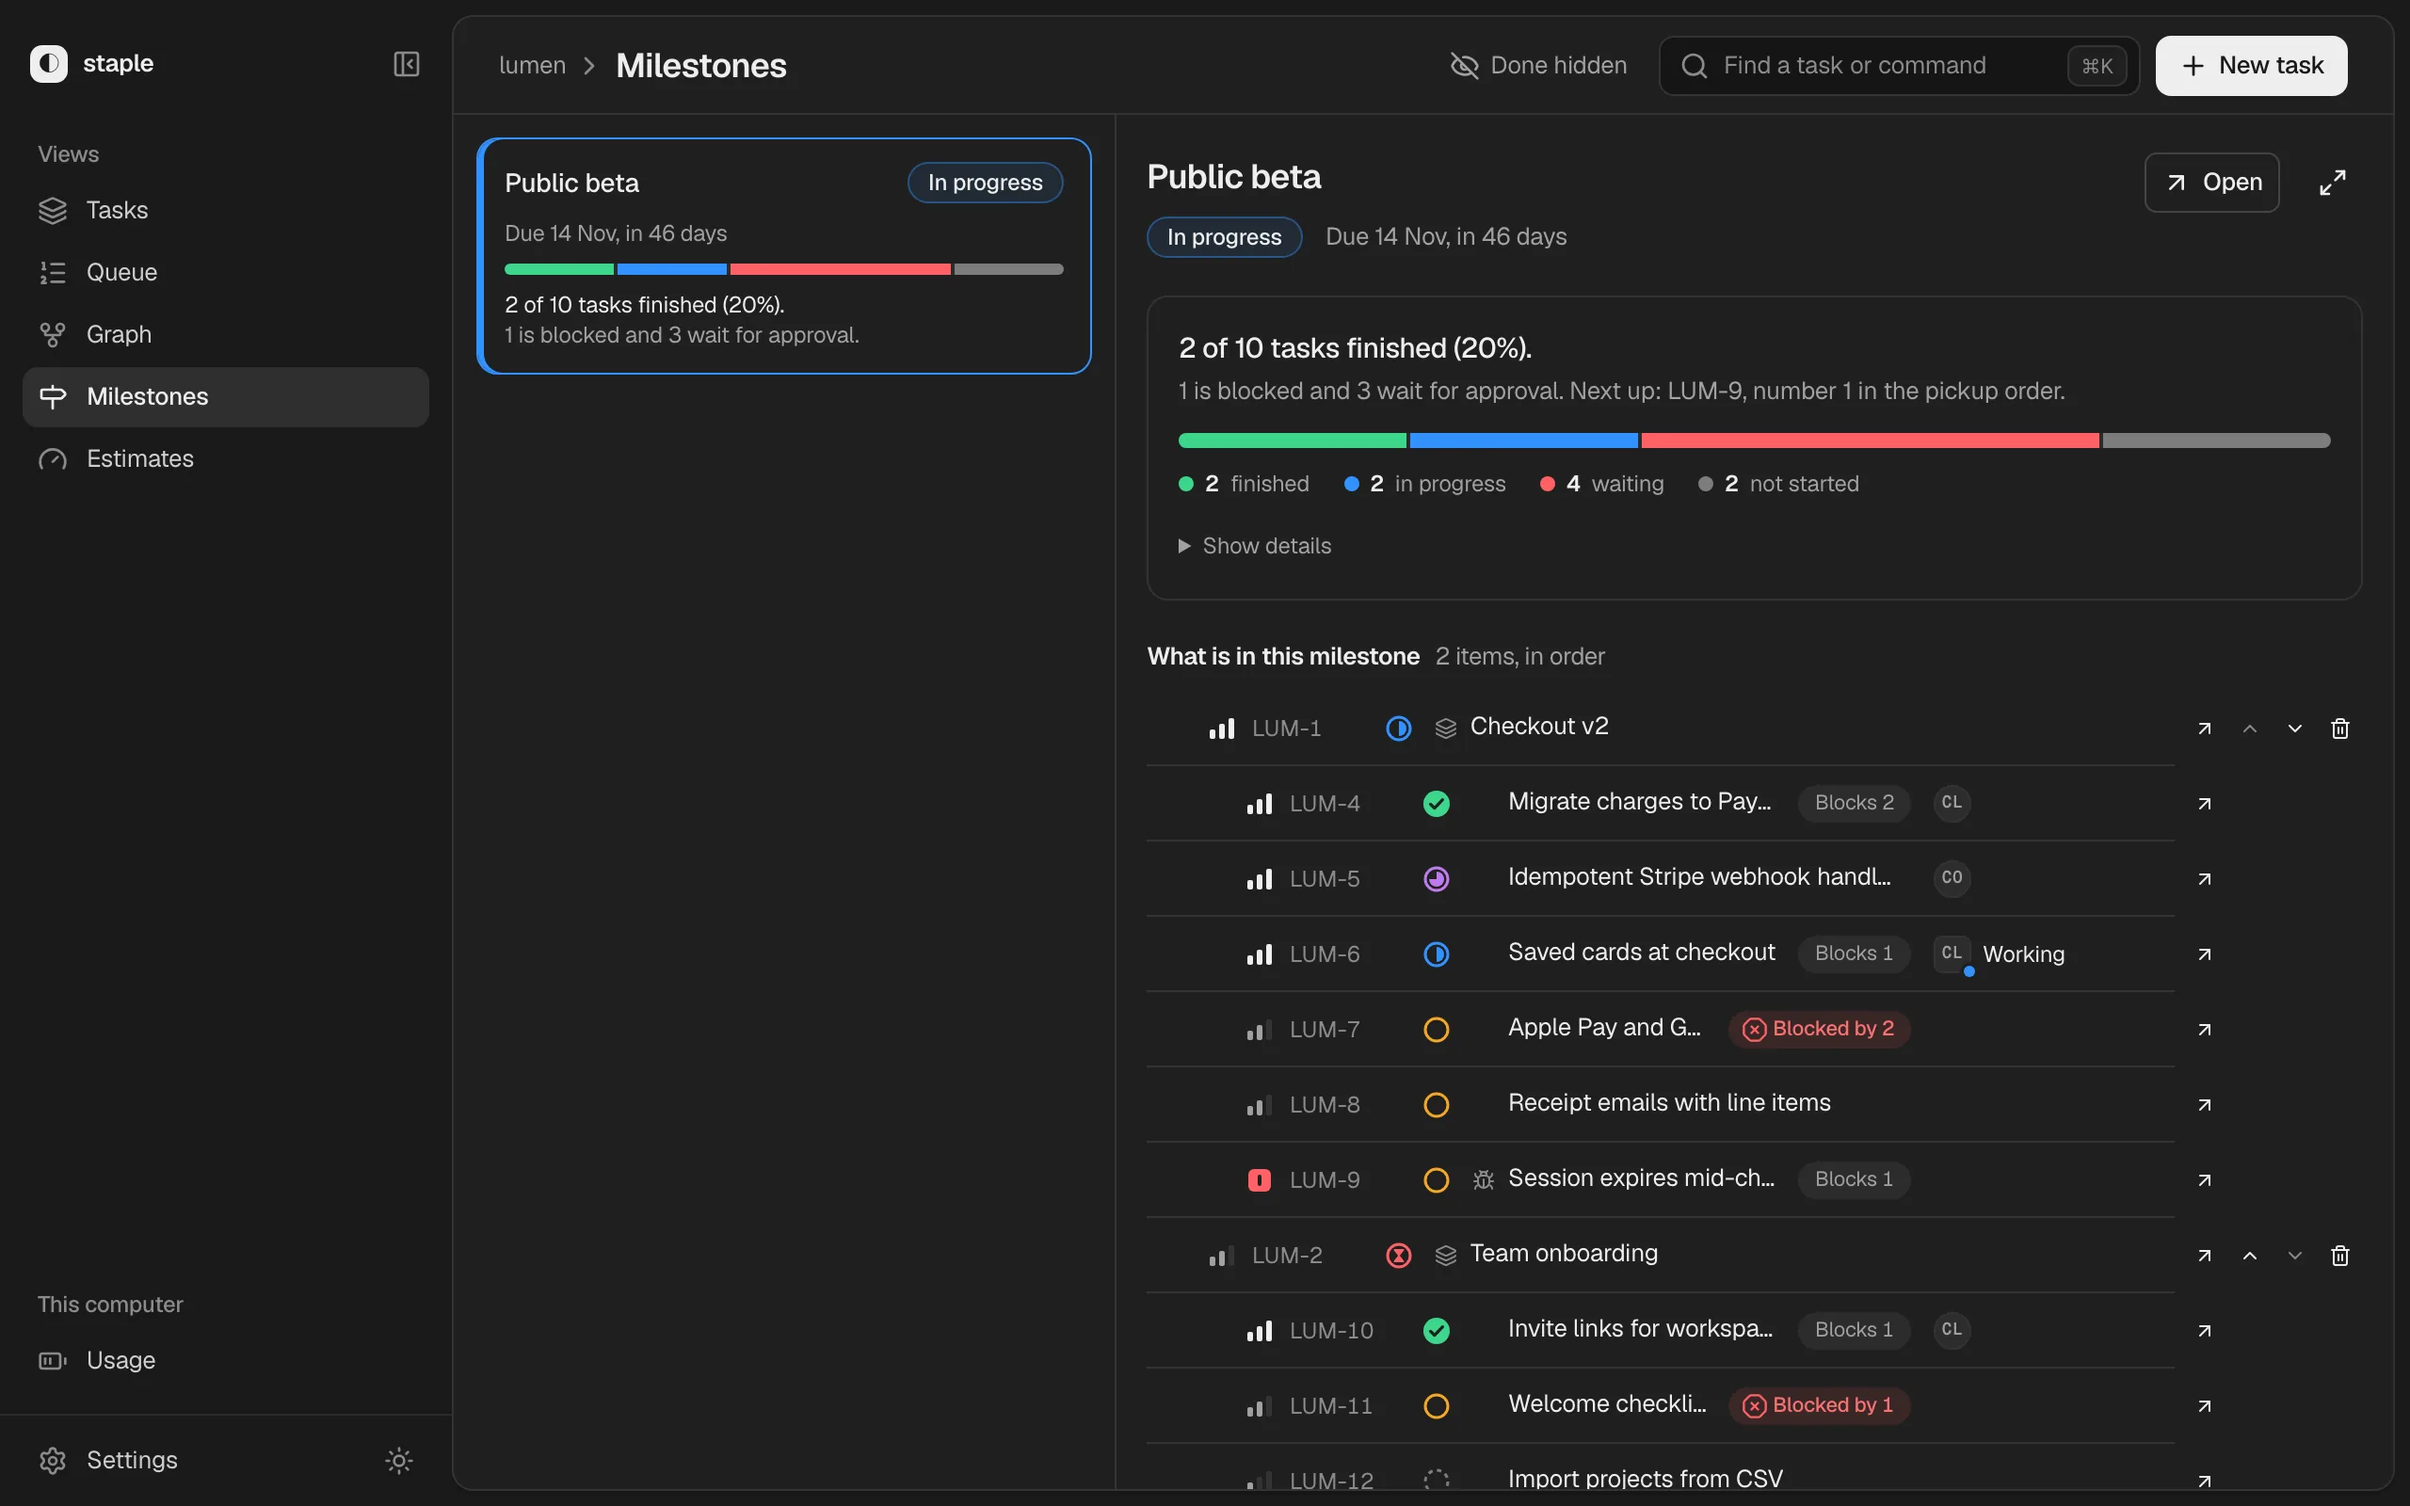
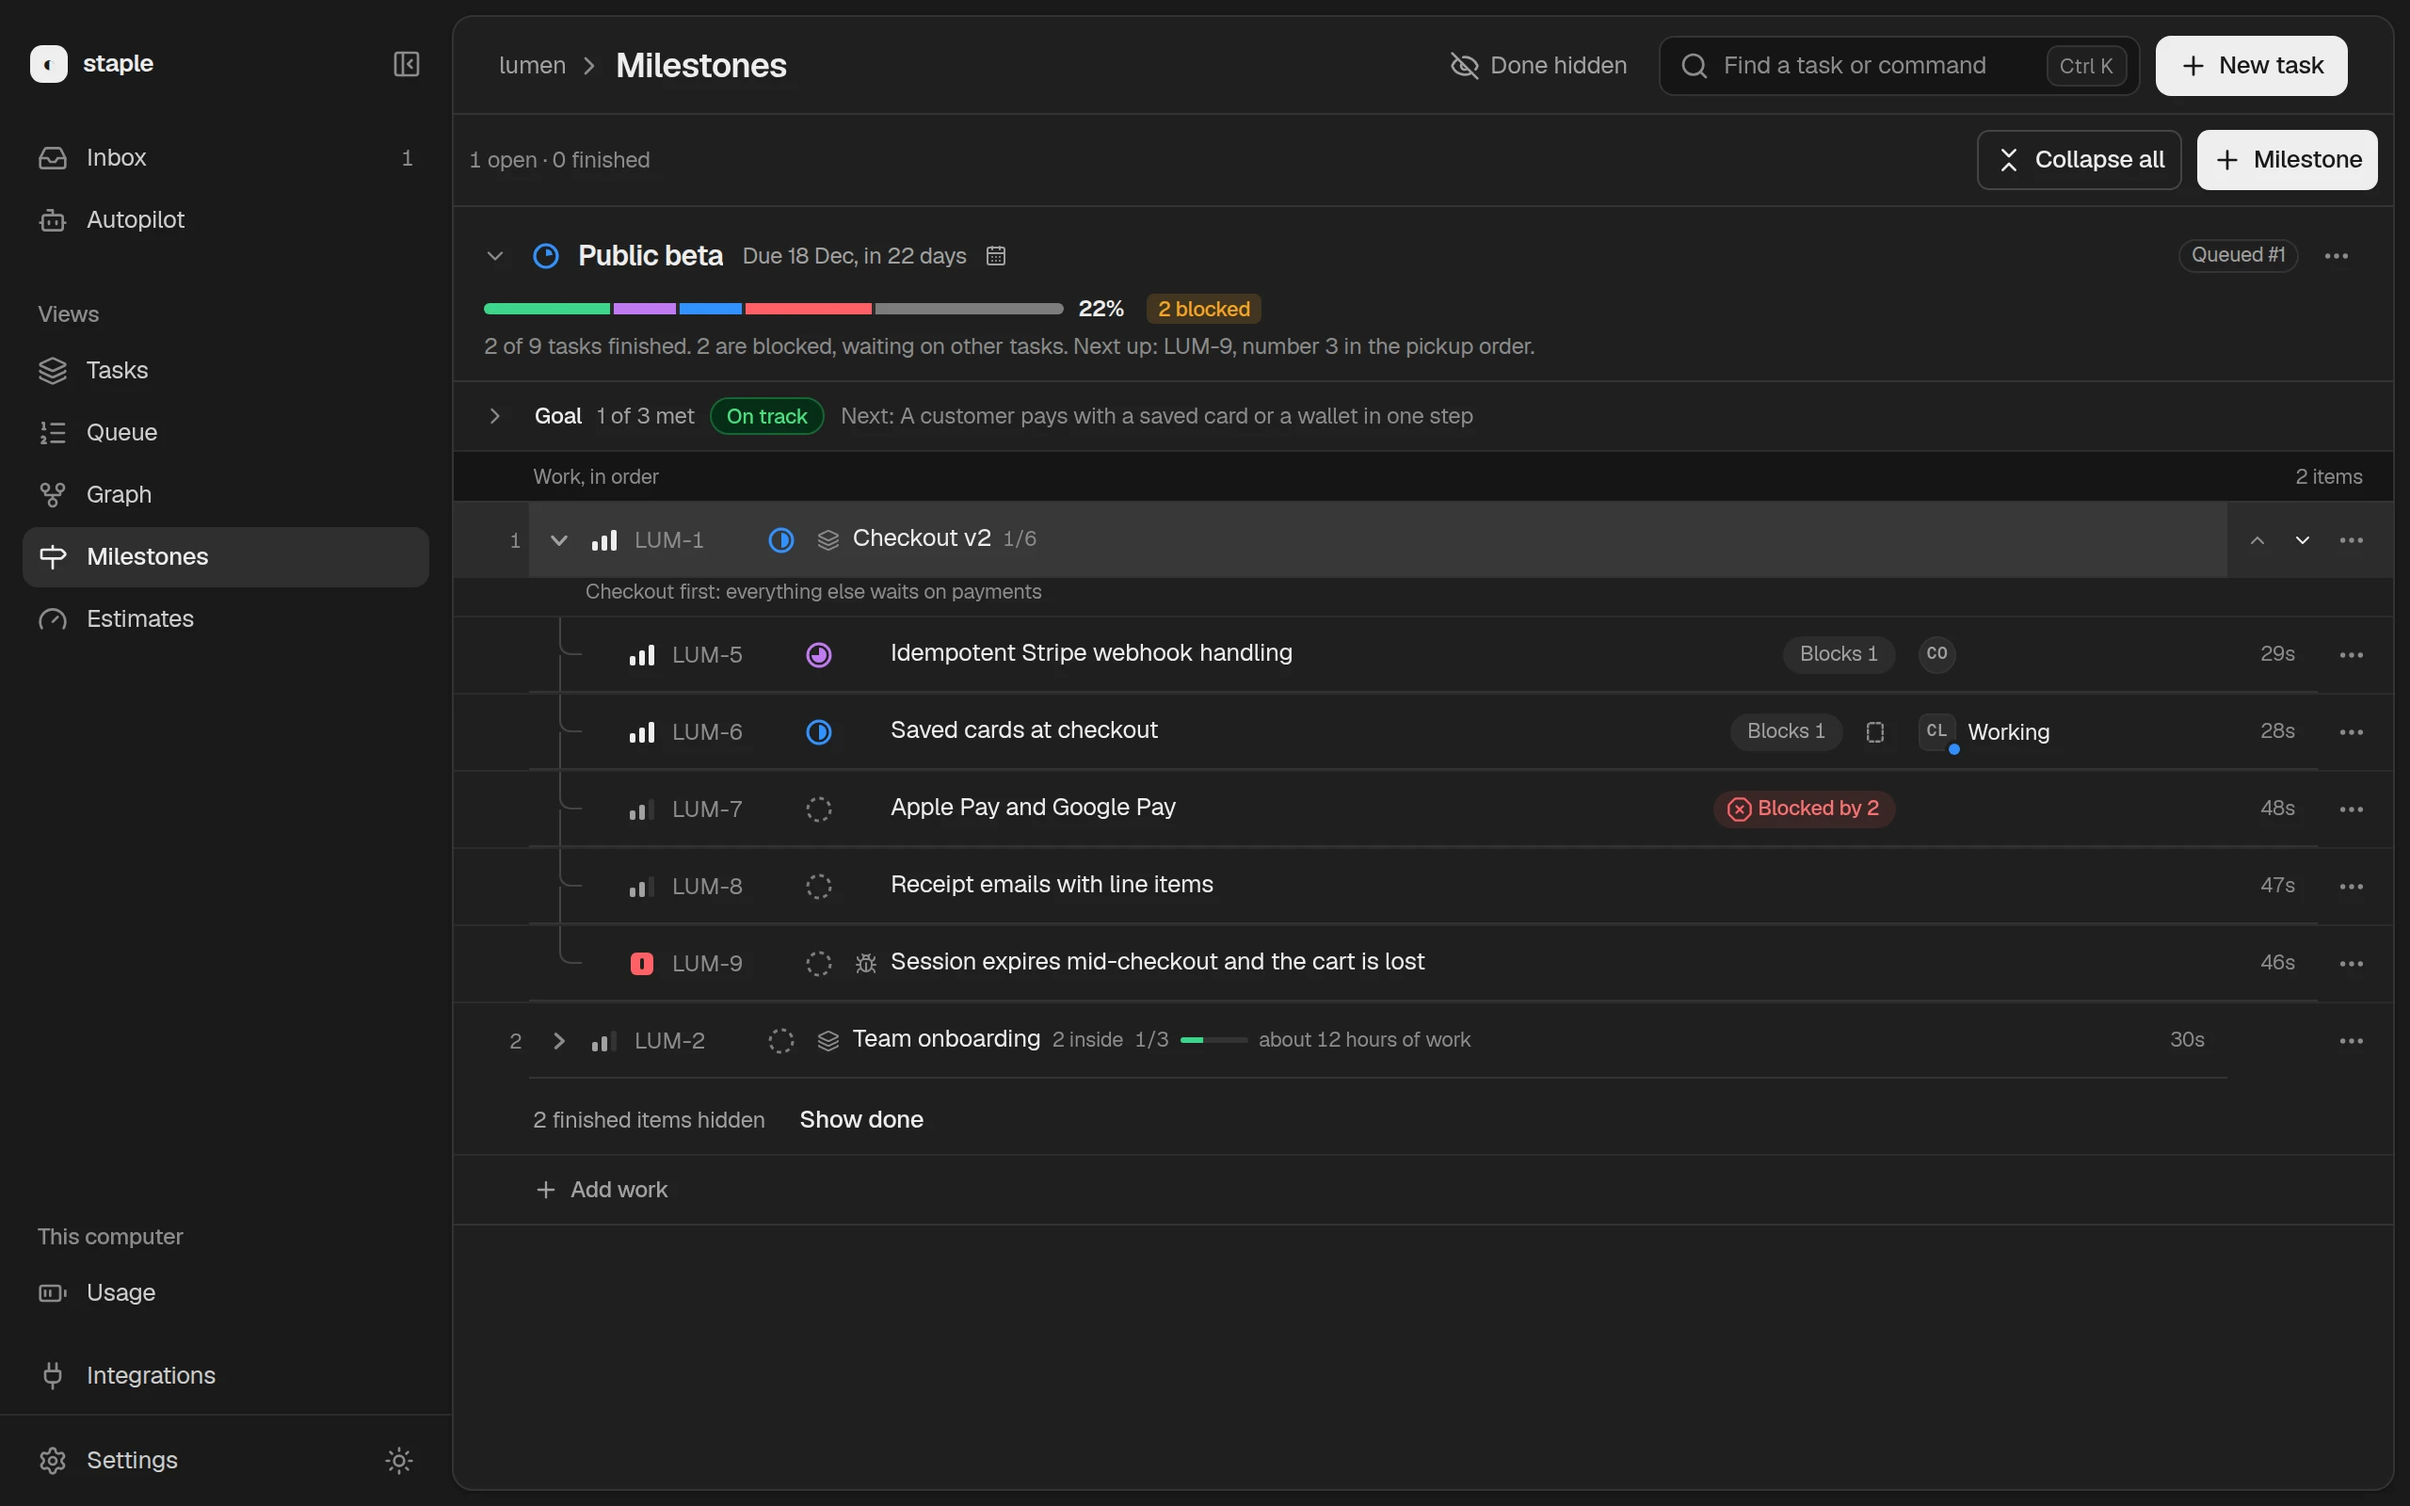
docs: the Milestones screenshots show the outline

diff --git a/docs/web-ui.md b/docs/web-ui.md
@@ -116,7 +116,7 @@ it waits on, and use the **Epics** picker to narrow the canvas.
 
 ## 6. Milestones: dated plans
 
-![The Milestones view: a milestone card with its due date and progress, and beside it the milestone's summary and its members in order](../site/static/img/screens/milestones-light.webp)
+![The Milestones view: one milestone as a section with its due date, progress bar and what is next, a Goal line, and its work in order with the first epic unfolded into its tickets](../site/static/img/screens/milestones-light.webp)
 
 Each open [milestone](milestones.md) is a section, in plan order. Its header gives
 the due date, a progress bar, what needs you (*Waiting for your approval*, *2
